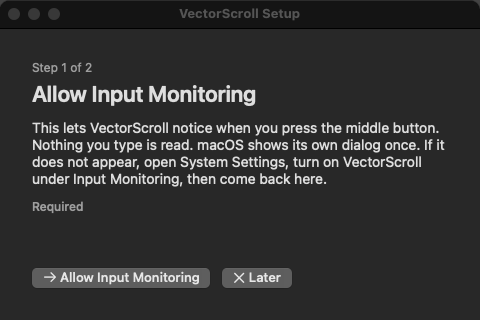
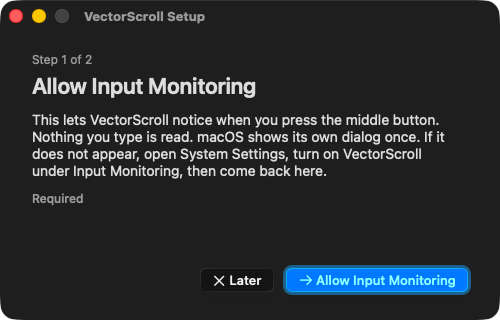
Refresh Liquid Glass screenshots and release documentation

diff --git a/site/docs.html b/site/docs.html
@@ -23,7 +23,7 @@
     <h1>Docs</h1>
     <h2 id="start">Getting started</h2>
     <p>Download the <a href="https://github.com/Sowyu/VectorScroll/releases/latest/download/VectorScroll.dmg">DMG</a>, drag VectorScroll into Applications, and open it. The setup guide asks for two permissions, one page each. Then press the middle button in any window and move the pointer.</p>
-    <img src="onboarding.png" alt="Setup guide, Input Monitoring step" width="480" height="320">
+    <img src="onboarding.png" alt="Setup guide, Input Monitoring step" width="500" height="320">
     <h2 id="scrolling">Scrolling</h2>
     <p><b>Hold to scroll</b> is the default. Hold the middle button, move, release to stop. Nothing happens until the pointer leaves the 10 pt dead zone, so a quick middle click still opens a link in a new tab.</p>
     <p><b>Toggle scrolling</b> keeps going after you let go. Any mouse button stops it. The click that stops it also reaches the app under the pointer, so stop over empty space if you do not want to activate something.</p>
@@ -33,7 +33,7 @@
     <h2 id="indicator">Indicator</h2>
     <p>A circle with four arrows marks the point where you pressed. Choose light or dark, and 28, 32, 40, or 48 pt.</p>
     <h2 id="settings">Settings</h2>
-    <img src="settings-hold.png" alt="Settings window in hold-to-scroll mode" width="400" height="483">
+    <img src="settings-hold.png" alt="Settings window in hold-to-scroll mode" width="620" height="677">
     <p>The window opens on launch by default and from the menu bar icon. Command-W or the window close button hides it, and scrolling keeps working. Every change saves immediately.</p>
     <p><b>Open settings on launch</b> and <b>Show menu bar icon</b> control how you reach the app. One of them always stays on. <b>Launch at login</b> registers with the system login items. <b>Setup guide</b> at the top of the window reopens the permission walkthrough.</p>
     <p>If the menu bar icon is hidden, reopen the window from Applications or run:</p>

diff --git a/scripts/check-hold.py b/scripts/check-hold.py
@@ -13,7 +13,6 @@ import plistlib
 import shutil
 import uuid
 import threading
-import os
 
 root = Path(__file__).resolve().parent.parent
 source = (root / "Sources/VectorScroll/main.swift").read_text()
@@ -394,16 +393,6 @@ extension VectorScrollApp {
 }
 
 setvbuf(stdout, nil, _IONBF, 0)
-if CommandLine.arguments[1] == "--prepare-display" {
-    let display = CGMainDisplayID()
-    let modes = CGDisplayCopyAllDisplayModes(display, nil) as? [CGDisplayMode] ?? []
-    if let mode = modes.filter({ $0.width >= 1280 && $0.height >= 960 })
-        .min(by: { $0.width * $0.height < $1.width * $1.height }) {
-        let result = CGDisplaySetDisplayMode(display, mode, nil)
-        print("CI display: \(mode.width)x\(mode.height), result \(result.rawValue)")
-    }
-    exit(0)
-}
 if CommandLine.arguments[1] == "--click" {
     precondition(CGPreflightPostEventAccess(), "UI checks require Accessibility access")
     let point = CGPoint(x: Double(CommandLine.arguments[2])!, y: Double(CommandLine.arguments[3])!)
@@ -455,9 +444,6 @@ binary = output / "check-hold"
 subprocess.run(["swiftc", "-swift-version", "6", "-warnings-as-errors",
                 str(generated), str(root / "Sources/VectorScroll/SettingsStyle.swift"), str(root / "Sources/VectorScroll/Onboarding.swift"), str(root / "Sources/VectorScroll/Updates.swift"), str(root / "Sources/VectorScroll/UpdateInstaller.swift"), "-o", str(binary), "-framework", "AppKit",
                 "-framework", "ApplicationServices", "-framework", "ServiceManagement"], check=True)
-# Give screenshots room for the full default window on the disposable CI Mac.
-if os.environ.get("GITHUB_ACTIONS") == "true":
-    subprocess.run([str(binary), "--prepare-display"], check=True, timeout=10)
 # LaunchServices registers the probe as a real foreground app. macOS 26 will
 # not activate an unbundled command-line process for native control tracking.
 run_id = uuid.uuid4().hex

diff --git a/README.md b/README.md
@@ -11,11 +11,11 @@ Version 1.8.0, build 15, uses native Liquid Glass controls on macOS 26. macOS 14
 <table>
   <tr>
     <td><img src="docs/settings-hold.png" alt="Settings window in hold-to-scroll mode" width="400"></td>
-    <td><img src="docs/settings-toggle.png" alt="Settings window in toggle mode with the delay slider" width="400"></td>
+    <td><img src="docs/settings-light.png" alt="Settings window in light appearance" width="400"></td>
   </tr>
   <tr>
-    <td align="center">Hold to scroll</td>
-    <td align="center">Toggle scrolling with the start delay</td>
+    <td align="center">Dark appearance</td>
+    <td align="center">Light appearance</td>
   </tr>
 </table>
 
